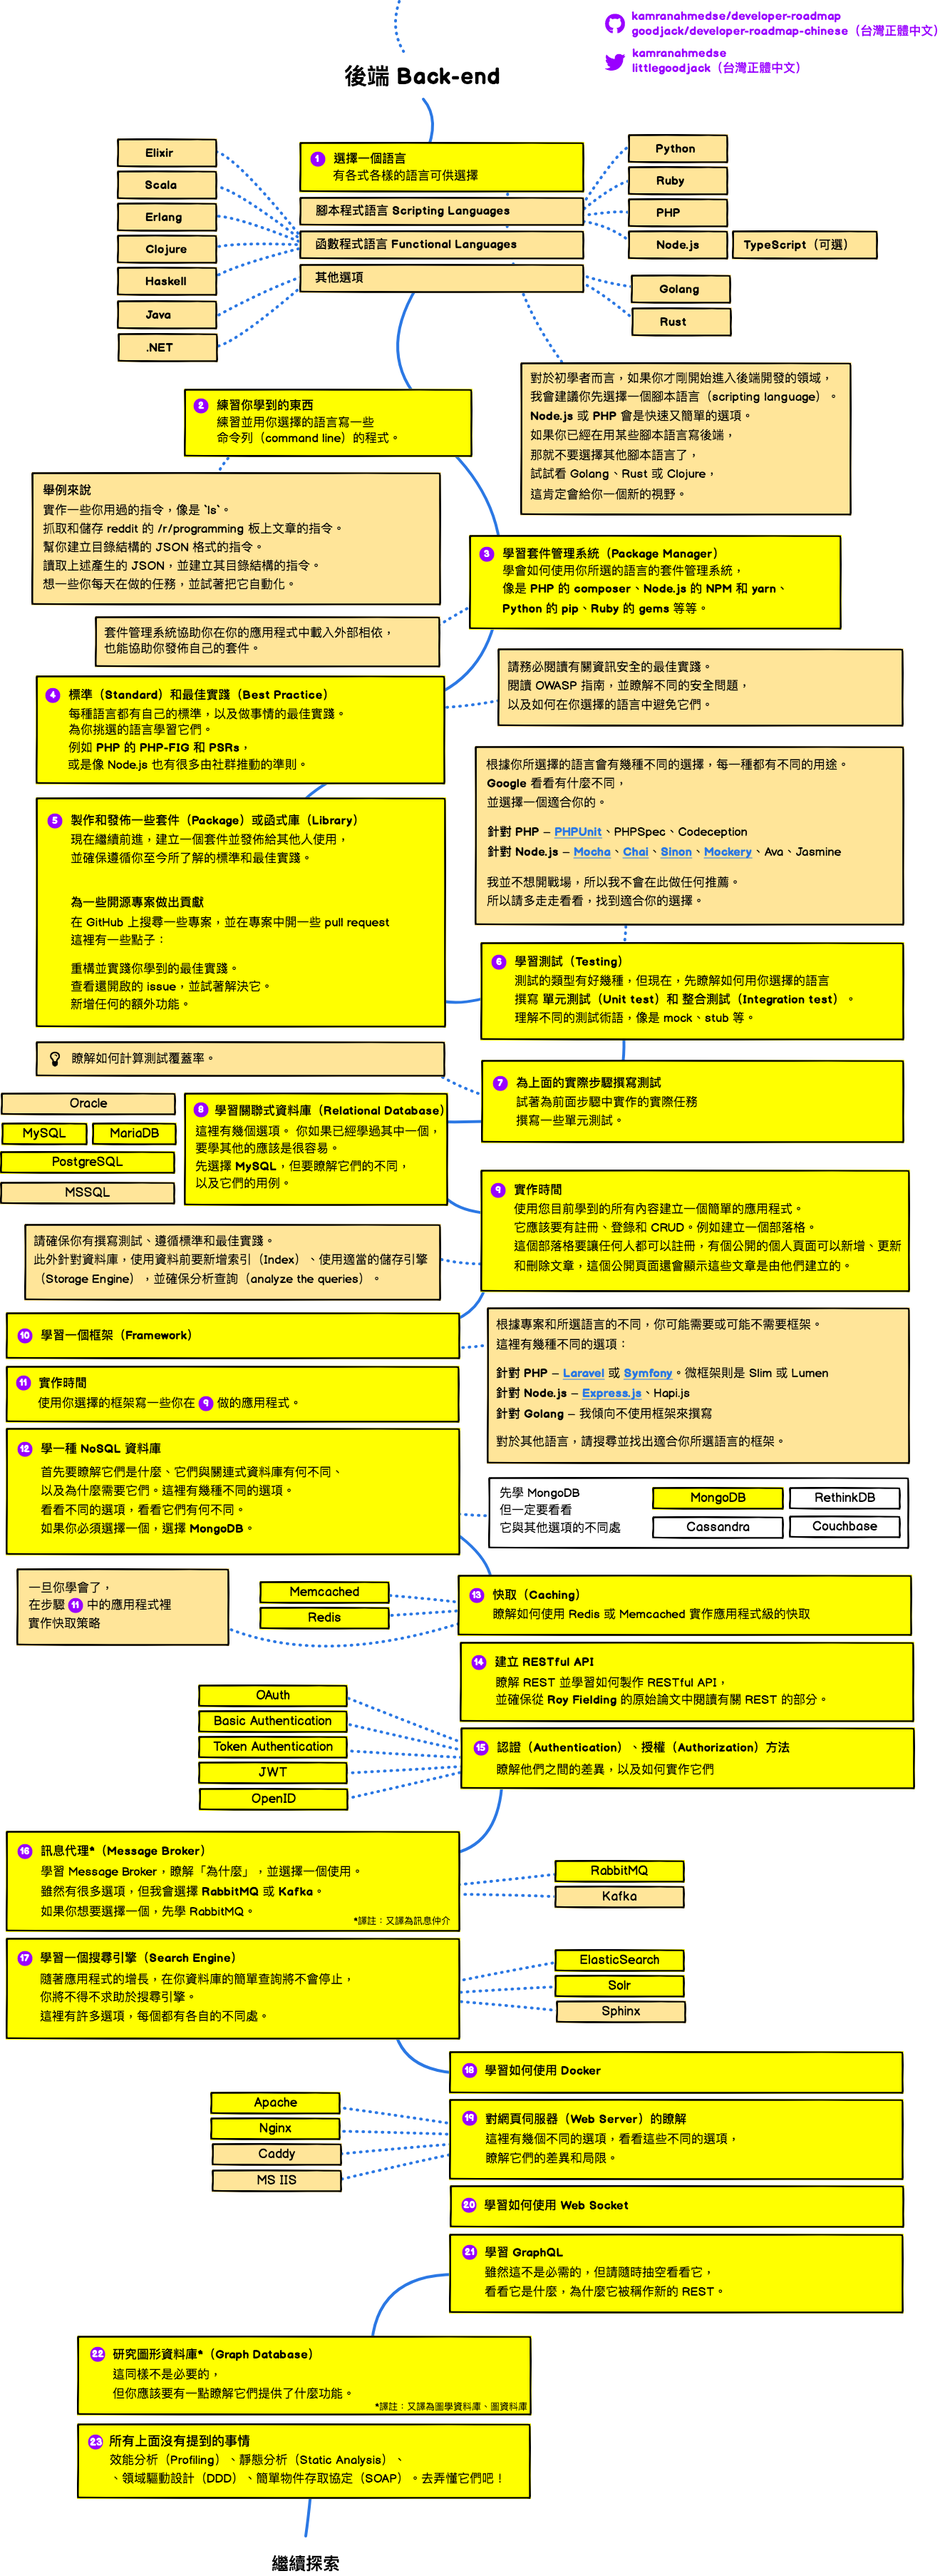
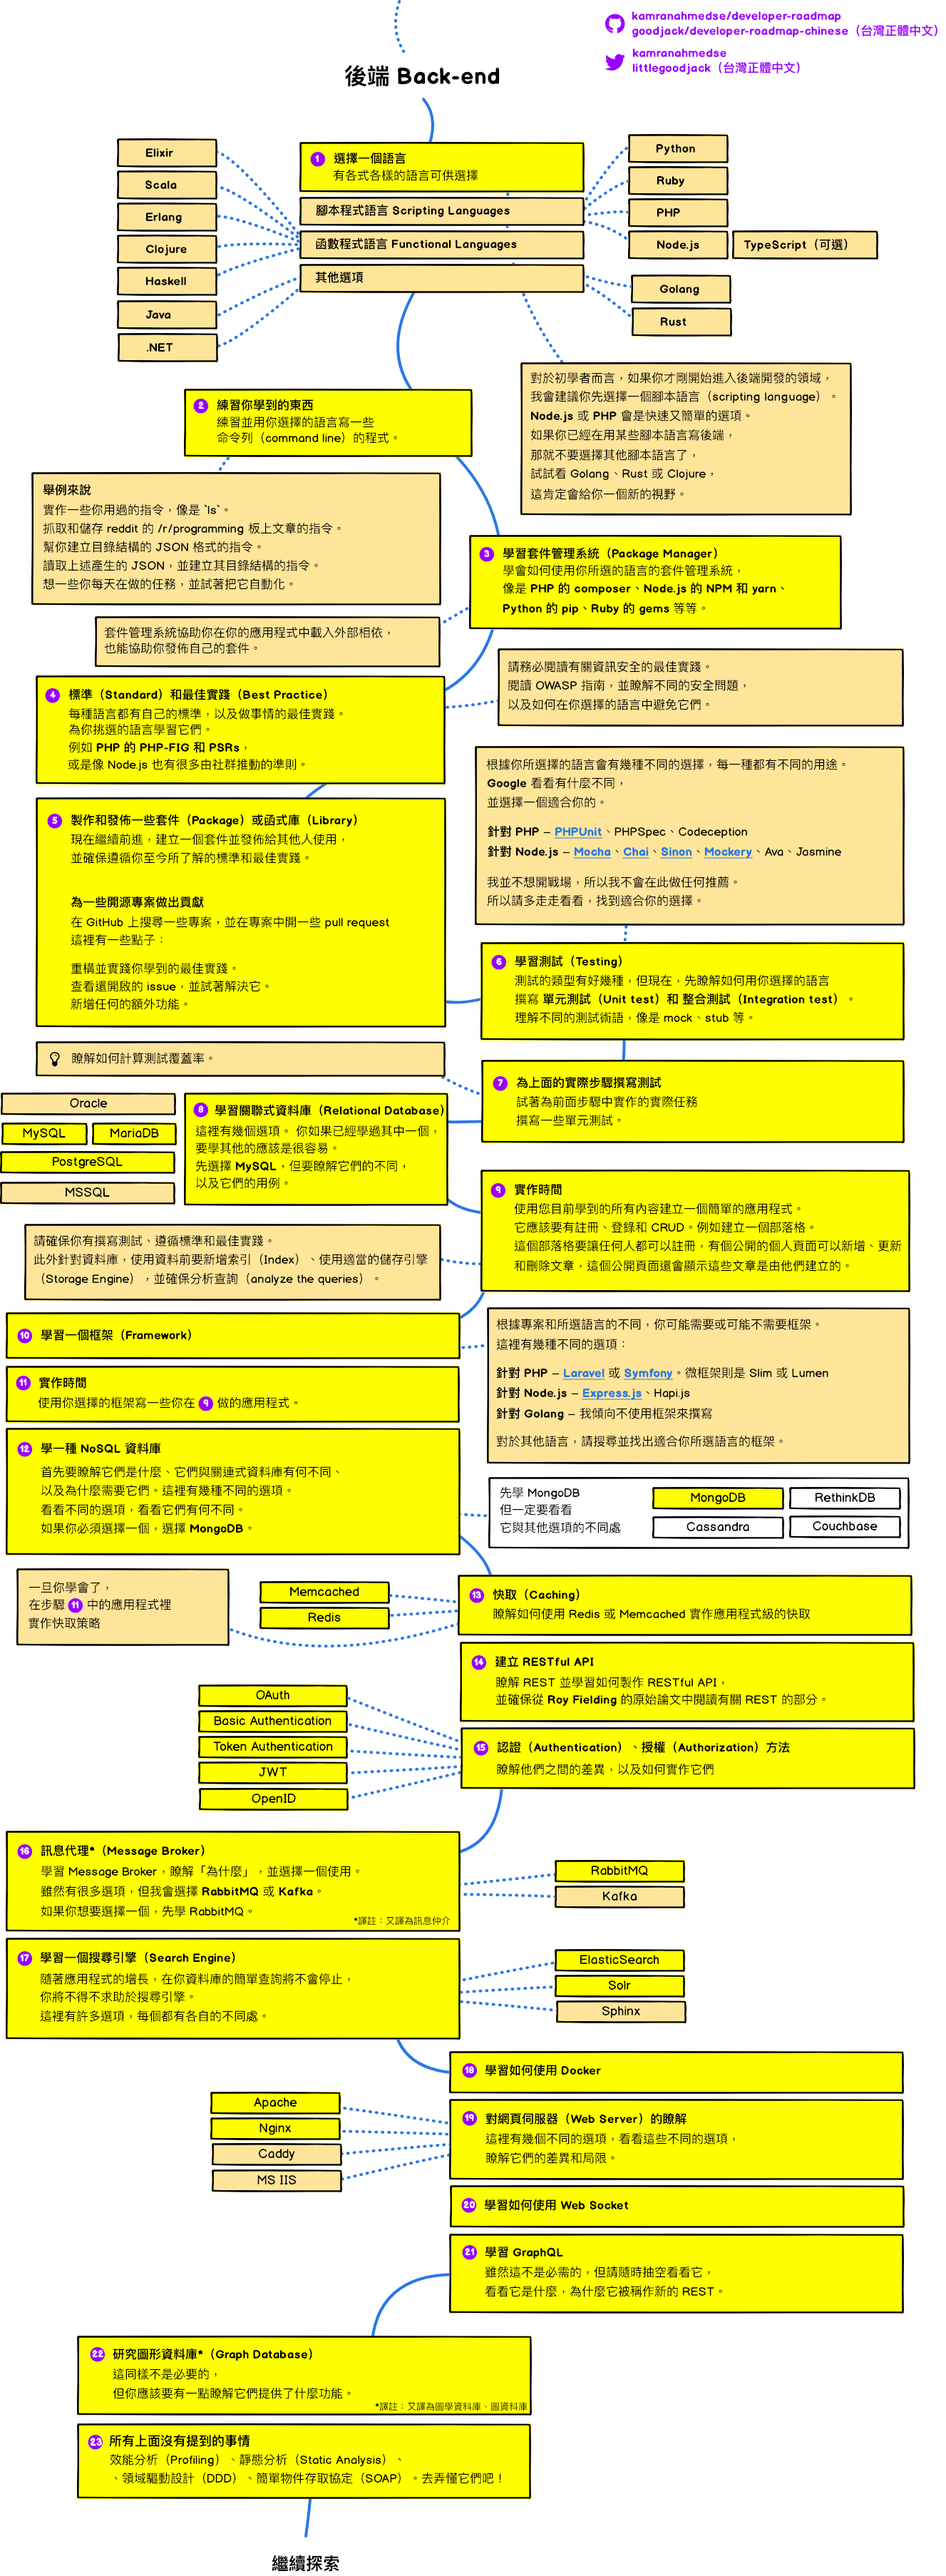
Update from abaa839

diff --git a/readme.md b/readme.md
@@ -21,27 +21,21 @@
 <sub>看看我的[部落格](http://kamranahmed.info)，然後來 [Twitter](https://twitter.com/kamranahmedse) 說聲 "hi"。</sub><br>
 <sub>（譯註：也歡迎來逛逛譯者的[部落格](http://goodjack.blogspot.com/)，然後來 [Twitter](https://twitter.com/littlegoodjack) 打個招呼 :P）</sub>
 
-## 台灣正體中文翻譯狀態
+## 台灣正體中文翻譯
 
-### 狀態徽章
+### 翻譯狀態
 
-| 原著最後更新時間 | 本翻譯最後更新時間 |
-| :-----------: | :-------------: |
+| 原著最後更新 | 本翻譯最後更新 |
+| :--------: | :----------: |
 | [![](https://img.shields.io/github/last-commit/kamranahmedse/developer-roadmap.svg?style=for-the-badge)](https://github.com/kamranahmedse/developer-roadmap) | [![](https://img.shields.io/github/last-commit/goodjack/developer-roadmap-chinese.svg?style=for-the-badge)](https://github.com/goodjack/developer-roadmap-chinese)
 
-### 更新日誌
-* [`08303c0`](https://github.com/kamranahmedse/developer-roadmap/tree/08303c062316bd3c903dcbd4d38cf31ca1b705bc) 2019 年新版路線圖
-    * 介紹改版：
-        * 新增 SOLID、KISS、YAGNI
-        * 新增授權條款
-        * 新增語意化版本
-    * 前端改版：
-        * 伺服器端渲染推薦 React.js
-        * 擴充測試段落並推薦 Jest、Enzyme、Cypress
-        * 新增 Web API、JS 中的 CSS、靜態網站產生器、桌面及手機應用程式、Web Assembly 等段落。
-* [`67a72aa`](https://github.com/kamranahmedse/developer-roadmap/commit/67a72aab113e79c11e292ada394606f079f6a263) 新增 DevOps 容器協作，並推薦 Kubernetes。
+### 最近更新
+> 其餘更新請參閱 [更新日誌](./CHANGELOG.md)
 
-## 譯者前言
+#### [`abaa839`](https://github.com/kamranahmedse/developer-roadmap/tree/abaa839b26d6bfb02208ad63e25186b558c1bdc4) - 2019-01-26
+* 取消後端路線圖的透明背景
+
+### 譯者前言
 嗨大家好我是小克 👋，從 2017 年開始注意到這個 repo 覺得獲益良多，所以就試著翻譯看看，分享給更多需要的人。由於這裡是翻譯 repo，關於內容的任何建議，推薦你直接回饋給 [kamranahmedse/developer-roadmap](https://github.com/kamranahmedse/developer-roadmap)，當然需要我協助也是可以的 :D
 
 這裡的中文都盡量使用 **台灣用語及術語**，資訊相關的術語都會在翻譯旁保留原文供參考。中文排版皆盡可能地依循 [**中文文案排版指北**](https://github.com/sparanoid/chinese-copywriting-guidelines)（若有不符的地方請跟我說）。

diff --git a/CHANGELOG.md b/CHANGELOG.md
@@ -1,0 +1,23 @@
+# 更新日誌
+> 此更新日誌由 [本翻譯專案](https://github.com/goodjack/developer-roadmap-chinese) 提供
+
+此專案的所有顯著更改都將記錄在此文件中。以下版本號皆依 [原著 Commit hash](https://github.com/kamranahmedse/developer-roadmap/commits/master) 為主。
+
+## [`abaa839`](https://github.com/kamranahmedse/developer-roadmap/tree/abaa839b26d6bfb02208ad63e25186b558c1bdc4) - 2019-01-26
+* 取消後端路線圖的透明背景
+
+
+## [`08303c0`](https://github.com/kamranahmedse/developer-roadmap/tree/08303c062316bd3c903dcbd4d38cf31ca1b705bc) - 2019-01-01
+* 2019 年新版路線圖
+* 介紹改版：
+    * 新增 SOLID、KISS、YAGNI
+    * 新增授權條款
+    * 新增語意化版本
+* 前端改版：
+    * 伺服器端渲染推薦 React.js
+    * 擴充測試段落並推薦 Jest、Enzyme、Cypress
+    * 新增 Web API、JS 中的 CSS、靜態網站產生器、桌面及手機應用程式、Web Assembly 等段落。
+
+
+## [`67a72aa`](https://github.com/kamranahmedse/developer-roadmap/commit/67a72aab113e79c11e292ada394606f079f6a263) - 2018-11-29
+* 新增 DevOps 容器協作，並推薦 Kubernetes。

diff --git a/readme-eng.md b/readme-eng.md
@@ -49,10 +49,10 @@ If you think any of the roadmaps can be improved, please do open a PR with any u
 - Spread the word
 - Reach out with any feedback [![Twitter URL](https://img.shields.io/twitter/url/https/twitter.com/kamranahmedse.svg?style=social&label=Follow%20%40kamranahmedse)](https://twitter.com/kamranahmedse)
 
-## Sponsored By
+## Sponsored By	
 
-- [Hackr.io - Find & Share the Best Online Programming Courses & Tutorials](https://hackr.io)
-
+ - [Hackr.io - Find & Share the Best Online Programming Courses & Tutorials](https://hackr.io)
+ 
 ## License
 
 [![License: CC BY-NC-SA 4.0](https://img.shields.io/badge/License-CC%20BY--NC--SA%204.0-lightgrey.svg)](https://creativecommons.org/licenses/by-nc-sa/4.0/)
